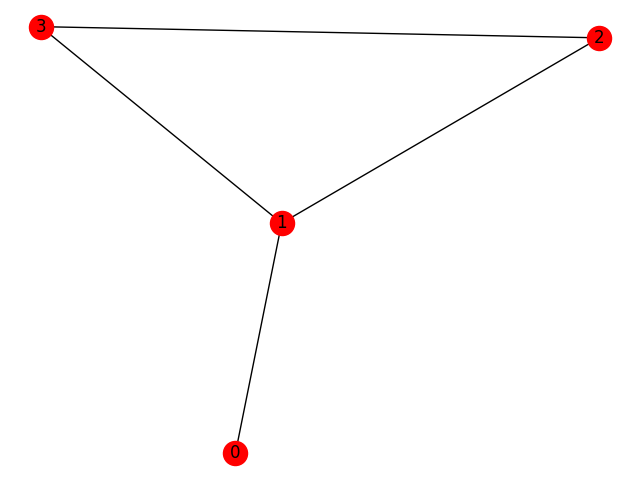
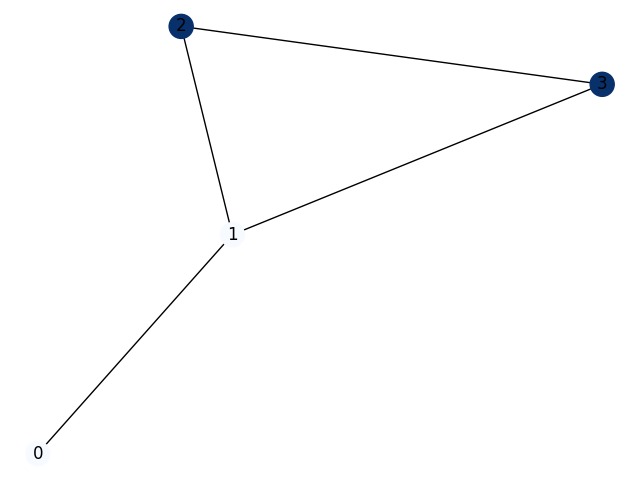
showing groups by color

diff --git a/simple-p2p/network.py b/simple-p2p/network.py
@@ -3,6 +3,7 @@ from multiprocessing import Pool
 from subprocess import call
 import networkx as nx
 import matplotlib.pyplot as plt
+import numpy as np
 
 nodeList = []
 lines = []
@@ -10,6 +11,7 @@ commandList = []
 graph = nx.Graph()
 pred = None
 dist = None
+mapper = {'id':[], 'group':[], 'color':[]}
 
 
 def sendMessages():
@@ -31,9 +33,14 @@ def createNodes():
 
 def createAndInitNetwork():
 	#draw and show graph
-	nx.draw(graph, with_labels=True)
+	'''cmap = plt.get_cmap('viridis')
+	mapper['color'].append(cmap(np.linspace(0, 1, len(mapper['group']))))'''
+	mapper['color']= np.array(map(ord, mapper['group']))
+	print mapper
+
+	nx.draw(graph, with_labels=True, node_color=mapper['color'], cmap=plt.cm.Blues)
 	#plt.show()
-	#plt.savefig('network.png')
+	plt.savefig('network.png')
 	#calculate shortest path between all nodes
 	pred, dist =  nx.floyd_warshall_predecessor_and_distance(graph)
 	for p in pred:
@@ -55,17 +62,18 @@ def createAndInitNetwork():
 def init():
 	configFile = open(sys.argv[1], 'r')
 	for line in configFile:
-		#map all string elements to an int list
-		line = map(int, line.split())
+		line = line.split()
 		#pop first element to reference
-		first = line.pop(0)
-		graph.add_node(first)
-		nodeList = [(first, first)]
+		first = (line.pop(0)).split(':')
+		graph.add_node(int(first[0]))
+		nodeList = [(int(first[0]), int(first[0]))]
+		mapper['id'].append(int(first[0]))
+		mapper['group'].append(first[1])
+		line = map(int, line)
 		for n in line:
-			nodeList.append((first, n))
+			nodeList.append((int(first[0]), n))
 		# print nodeList
 		graph.add_edges_from(nodeList)
-
 init()
 createAndInitNetwork()
 sendMessages()
